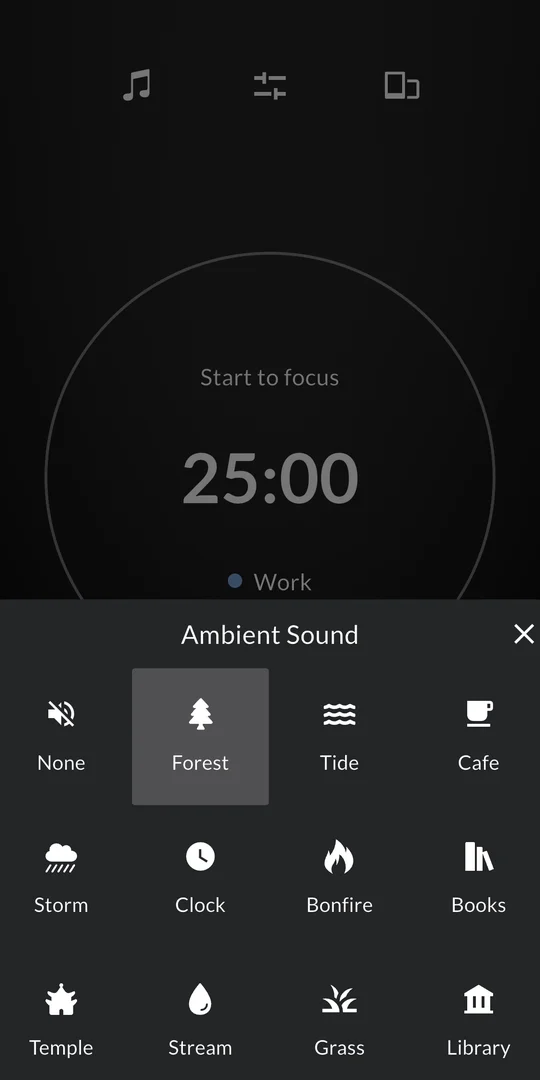
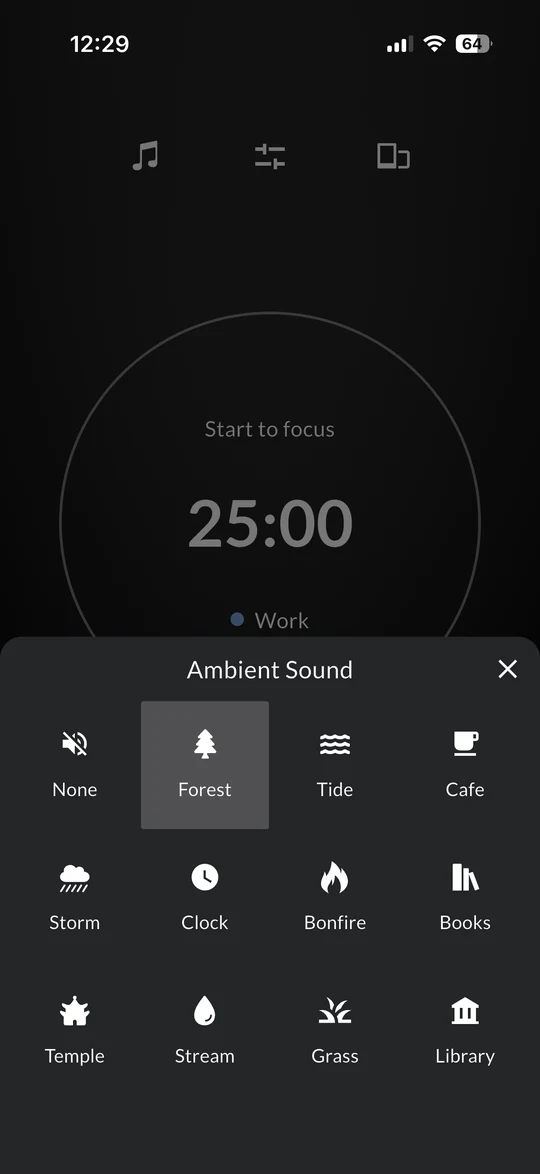
Show screenshots and the video still uncropped
Claude-Session: https://claude.ai/code/session_011MVkH6nZ5reC8XqX1YsSps

diff --git a/index.html b/index.html
@@ -243,15 +243,15 @@
           <p>Set your session, tag it with a category and start. Auto-Run keeps rounds going without tapping back in, and ambient sounds — forest, tide, café, bonfire — help you settle.</p>
         </div>
         <div class="feature-media">
-          <img class="shot" src="images/shot-ios-timer.webp" alt="Foca focus timer running on iPhone" width="540" height="1080" loading="lazy">
-          <img class="shot" src="images/shot-ios-sounds.webp" alt="Choosing an ambient sound in Foca" width="540" height="1080" loading="lazy">
+          <img class="shot" src="images/shot-ios-timer.webp" alt="Foca focus timer running on iPhone" width="540" height="1170" loading="lazy">
+          <img class="shot" src="images/shot-ios-sounds.webp" alt="Choosing an ambient sound in Foca" width="540" height="1170" loading="lazy">
         </div>
       </div>
 
       <div class="feature flip reveal">
         <div class="feature-media">
-          <img class="shot" src="images/shot-ios-break.webp" alt="Foca break timer" width="540" height="1080" loading="lazy">
-          <img class="shot" src="images/shot-ios-stretch.webp" alt="Guided back stretch in Foca" width="540" height="1080" loading="lazy">
+          <img class="shot" src="images/shot-ios-break.webp" alt="Foca break timer" width="540" height="1170" loading="lazy">
+          <img class="shot" src="images/shot-ios-stretch.webp" alt="Guided back stretch in Foca" width="540" height="1170" loading="lazy">
         </div>
         <div class="feature-copy">
           <p class="eyebrow">02 · Break</p>
@@ -267,8 +267,8 @@
           <p>Daily and weekly focus time, plus how it splits across your categories — Work, Study, Writing, Reading and more.</p>
         </div>
         <div class="feature-media">
-          <img class="shot" src="images/shot-ios-stats.webp" alt="Foca focus statistics" width="540" height="1080" loading="lazy">
-          <img class="shot" src="images/shot-ios-distribution.webp" alt="Foca task distribution by category" width="540" height="1080" loading="lazy">
+          <img class="shot" src="images/shot-ios-stats.webp" alt="Foca focus statistics" width="540" height="1170" loading="lazy">
+          <img class="shot" src="images/shot-ios-distribution.webp" alt="Foca task distribution by category" width="540" height="1170" loading="lazy">
         </div>
       </div>
     </section>
@@ -286,7 +286,7 @@
         </figure>
         <a class="creator" href="https://youtu.be/SgmRO-4eQCE" data-campaign="web_home_creator_video">
           <span class="thumb">
-            <img src="images/foca-video-cover.webp" alt="" width="1280" height="720" loading="lazy">
+            <img src="images/foca-video-cover.webp" alt="" width="1280" height="609" loading="lazy">
             <span class="yt-play" aria-hidden="true"><svg width="16" height="16" viewBox="0 0 24 24" fill="#1A1208"><path d="M6 4l14 8-14 8z"/></svg></span>
           </span>
           <span class="creator-copy">

diff --git a/css/home.css b/css/home.css
@@ -93,8 +93,8 @@ p { margin: 0; }
 .feature-copy { flex: 1 1 380px; min-width: 0; display: flex; flex-direction: column; gap: 16px; }
 .feature h2 { font-size: clamp(34px, 4vw, 46px); line-height: 1.08; }
 .feature-copy p:not(.eyebrow) { font-size: 18px; color: var(--muted); }
-.feature-media { flex: 1 1 380px; display: flex; justify-content: center; gap: 20px; }
-.shot { width: calc(50% - 10px); max-width: 260px; aspect-ratio: 1 / 2; object-fit: cover; border-radius: 28px; border: 1px solid #2a2926; box-shadow: 0 24px 60px rgba(0,0,0,.5); }
+.feature-media { flex: 1 1 380px; display: flex; justify-content: center; align-items: flex-start; gap: 20px; }
+.shot { width: calc(50% - 10px); max-width: 260px; border-radius: 28px; border: 1px solid #2a2926; box-shadow: 0 24px 60px rgba(0,0,0,.5); }
 
 
 .quotes { display: grid; grid-template-columns: repeat(auto-fit, minmax(300px, 1fr)); gap: 20px; }
@@ -102,8 +102,8 @@ p { margin: 0; }
 .quotes blockquote { margin: 0; font-family: var(--serif); font-size: 21px; line-height: 1.45; }
 .creator { background: var(--panel); border-radius: 20px; overflow: hidden; display: flex; flex-direction: column; color: var(--ink); transition: transform .25s ease; }
 .creator:hover { color: var(--ink); transform: translateY(-4px); }
-.creator .thumb { position: relative; aspect-ratio: 16 / 9; background: #24221f; overflow: hidden; }
-.creator .thumb img { width: 100%; height: 100%; object-fit: cover; }
+.creator .thumb { position: relative; background: #24221f; overflow: hidden; }
+.creator .thumb img { width: 100%; height: auto; }
 .creator .yt-play { position: absolute; left: 20px; bottom: 20px; width: 48px; height: 48px; border-radius: 50%; background: var(--accent); display: flex; align-items: center; justify-content: center; box-shadow: 0 8px 24px rgba(0,0,0,.4); }
 .creator-copy { padding: 20px 24px 24px; display: flex; flex-direction: column; gap: 6px; }
 .creator-copy strong { font-family: var(--serif); font-weight: 500; font-size: 20px; line-height: 1.3; }
